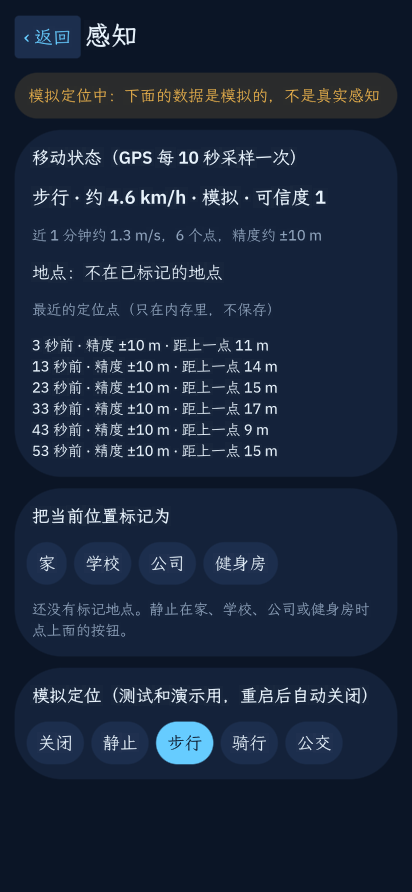
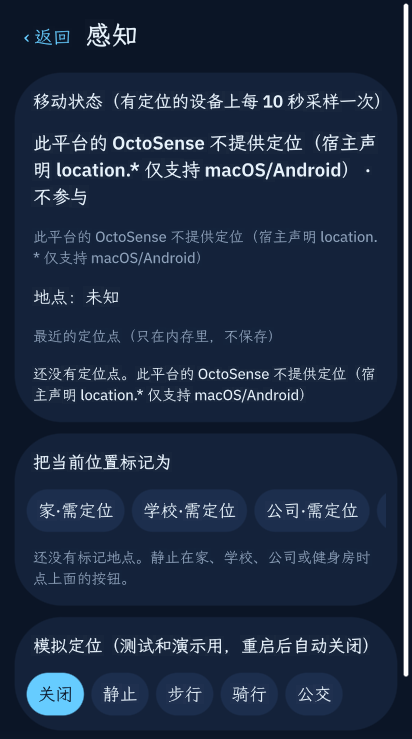
docs: 商店截图重拍为 0.4.0 界面（Windows 桌面版 rc.5，412×739）
桌面 Dock 恒显遮挡窗口底部 76px，截图如实裁掉，旧 0.3.4 截图（412×892，
card-host 拍摄）保留在 Git 历史。README 仓库结构与验证情况表同步说明。

diff --git a/README.md b/README.md
@@ -420,7 +420,7 @@ curl -s 127.0.0.1:8141/quit           # 退出
 | Release 包发布者证明：`hub publisher-verify` 通过，解包后与提交 `8805240` 的 `bundle/` 一致（除 `manifest.json`） | ✅ | GitHub Actions 运行 [38262324723](https://github.com/peterdlick-stack/agentic-app/actions/runs/38262324723)；App Hub `3863591` |
 | 门禁检查 `context-dj 0.3.3 — PASSED` | ✅ | 干净检出 |
 | App Hub 门禁 `hub check`：`context-dj 0.3.4 — PASSED` | ✅ | 云端容器，App Hub `78dfda5` |
-| 商店截图是 0.3.4 当前界面 | ✅ | `card-host`，2026-10-06 |
+| 商店截图是 0.4.0 当前界面 | ✅ | Windows 桌面版 rc.5，2026-10-13（412×739，Dock 遮挡部分裁掉；0.3.4 旧图见 Git 历史） |
 | 三步主界面、候选确认与撤销、去重 | ✅ | `card-host` + 桌面版 |
 | 真实 MiniMax：情境判断 + 选歌 + 理由 | ✅ | 桌面版（v0.2 的 5 个场景、彩排 18 次请求、正式录制） |
 | AI 不可用退回本地规则；选歌途中出错不卡死 | ✅ | `card-host`（无 model 服务、故障注入） |
@@ -505,7 +505,7 @@ agentic-app/
 │  ├─ listing.json         商店资料：描述、分类、截图、隐私政策
 │  ├─ AGENT.md             只读应用助手的说明
 │  ├─ assets/icon.svg
-│  └─ screenshots/         商店截图（0.3.4 时在 card-host 里拍的，0.4.0 界面有少量文字不同）
+│  └─ screenshots/         商店截图（0.4.0 在 Windows 桌面版 rc.5 里重拍，2026-10-13，412×739；桌面 Dock 恒显遮挡窗口底部，已如实裁掉，0.3.4 旧图 412×892 见 Git 历史）
 ├─ .github/workflows/      GitHub 发布流程（publish-app.yml，由 tools/octo publish-github 生成）
 ├─ docs/
 │  ├─ PLAN.md              设计、接口、阈值和每一轮测试记录
